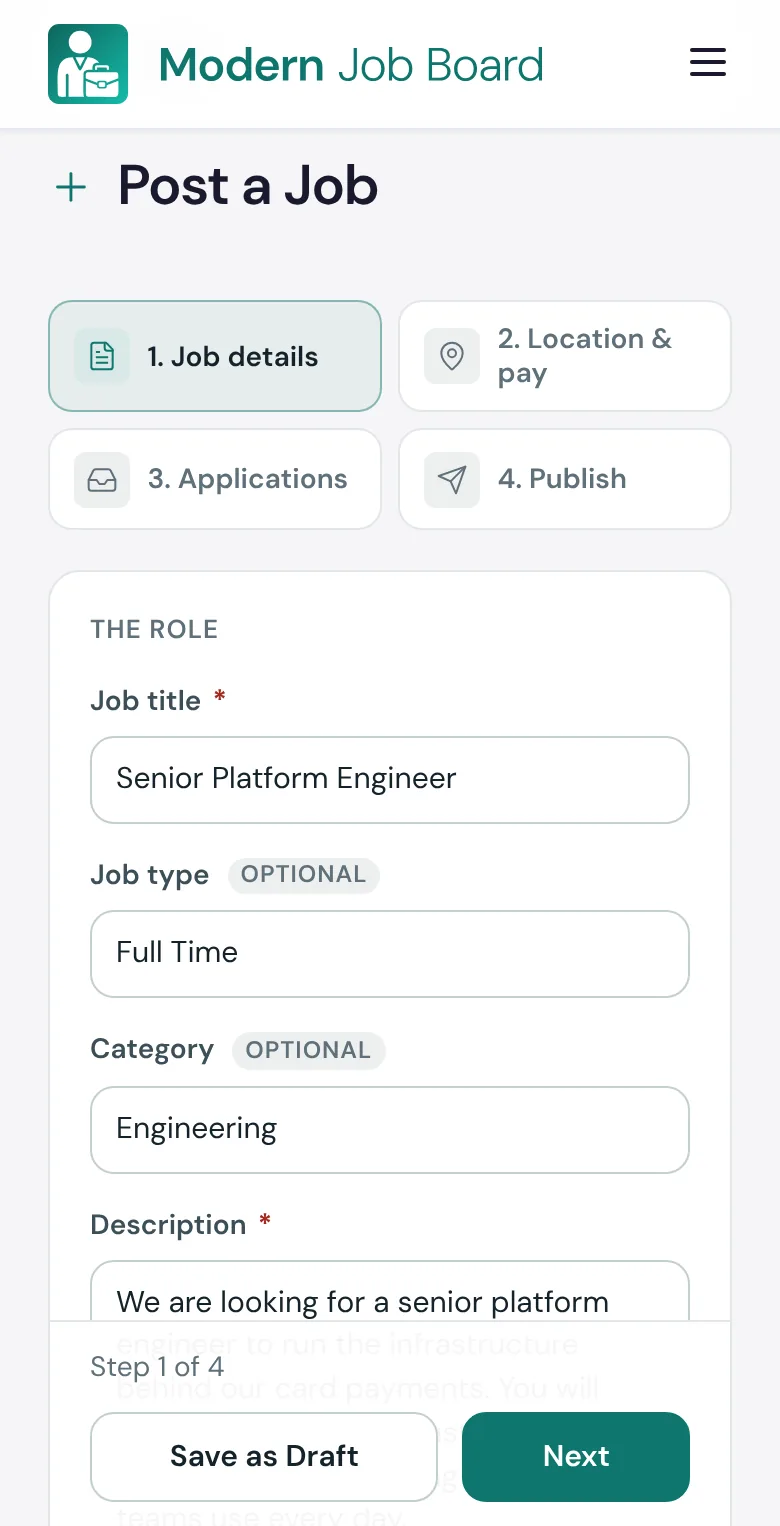
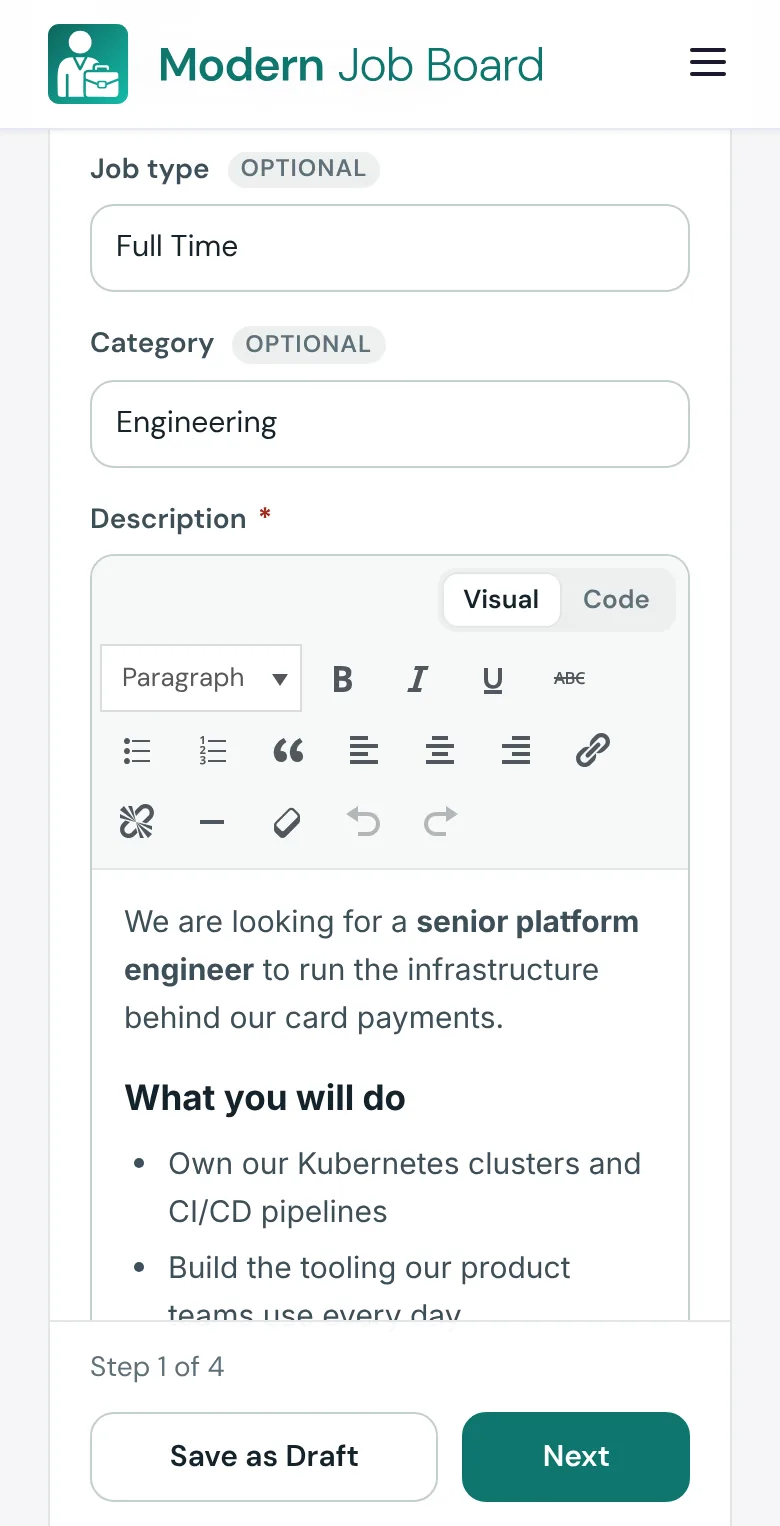
Back-to-top above the dashboard save bar; new job form screenshots (0.9.0-beta.107)
Claude-Session: https://claude.ai/code/session_011eNM8LrPwtigcZq5nayHnB

diff --git a/css/styles.css b/css/styles.css
@@ -2028,6 +2028,19 @@ footer {
     }
 }
 
+/* Keep it above the recruiter dashboard's sticky save bar (Company tab,
+   Post a Job), which sits along the bottom of the screen. */
+body:has(.mjb-cd-savebar) .back-to-top {
+    bottom: 6rem;
+}
+
+@media (max-width: 639px) {
+    /* The Post a Job bar wraps to two rows on phones. */
+    body:has(.mjb-jobform__bar) .back-to-top {
+        bottom: 9.5rem;
+    }
+}
+
 /* -- Documentation reference (Bullhorn-style shell, MJB look) -- */
 .docs-page {
     padding-top: 0;

diff --git a/style.css b/style.css
@@ -4,7 +4,7 @@ Theme URI: https://www.modernjobboard.com
 Author: Martin Orton / Antigravity
 Author URI: https://martinorton.com
 Description: Custom WordPress theme converted from a static HTML template for Modern Job Board. Pre-stable beta release (not 1.0 stable).
-Version: 0.9.0-beta.106
+Version: 0.9.0-beta.107
 License: GNU General Public License v2 or later
 License URI: http://www.gnu.org/licenses/gpl-2.0.html
 Text Domain: modern-job-board-theme

diff --git a/functions.php b/functions.php
@@ -5,7 +5,7 @@
  * @package ModernJobBoardTheme
  */
 
-define( 'MJB_THEME_VERSION', '0.9.0-beta.106' );
+define( 'MJB_THEME_VERSION', '0.9.0-beta.107' );
 
 if ( ! function_exists( 'mjb_theme_setup' ) ) {
 	/**

diff --git a/CHANGELOG.md b/CHANGELOG.md
@@ -2,6 +2,14 @@
 
 Canonical version: `Version` in `style.css` and `MJB_THEME_VERSION` in `functions.php`.
 
+## [0.9.0-beta.107] - 2026-11-26
+
+### Changed
+- New Post a Job screenshots on the Frontend Job Submission page, showing the full description editor (plugin 0.9.0-beta.200).
+
+### Fixed
+- **The back-to-top button no longer covers the recruiter dashboard's save bar.** On the Company tab and Post a Job it now sits above the sticky bar, and higher on phones where the Post a Job bar wraps to two rows (it was covering the Next button).
+
 ## [0.9.0-beta.106] - 2026-11-26
 
 ### Changed
